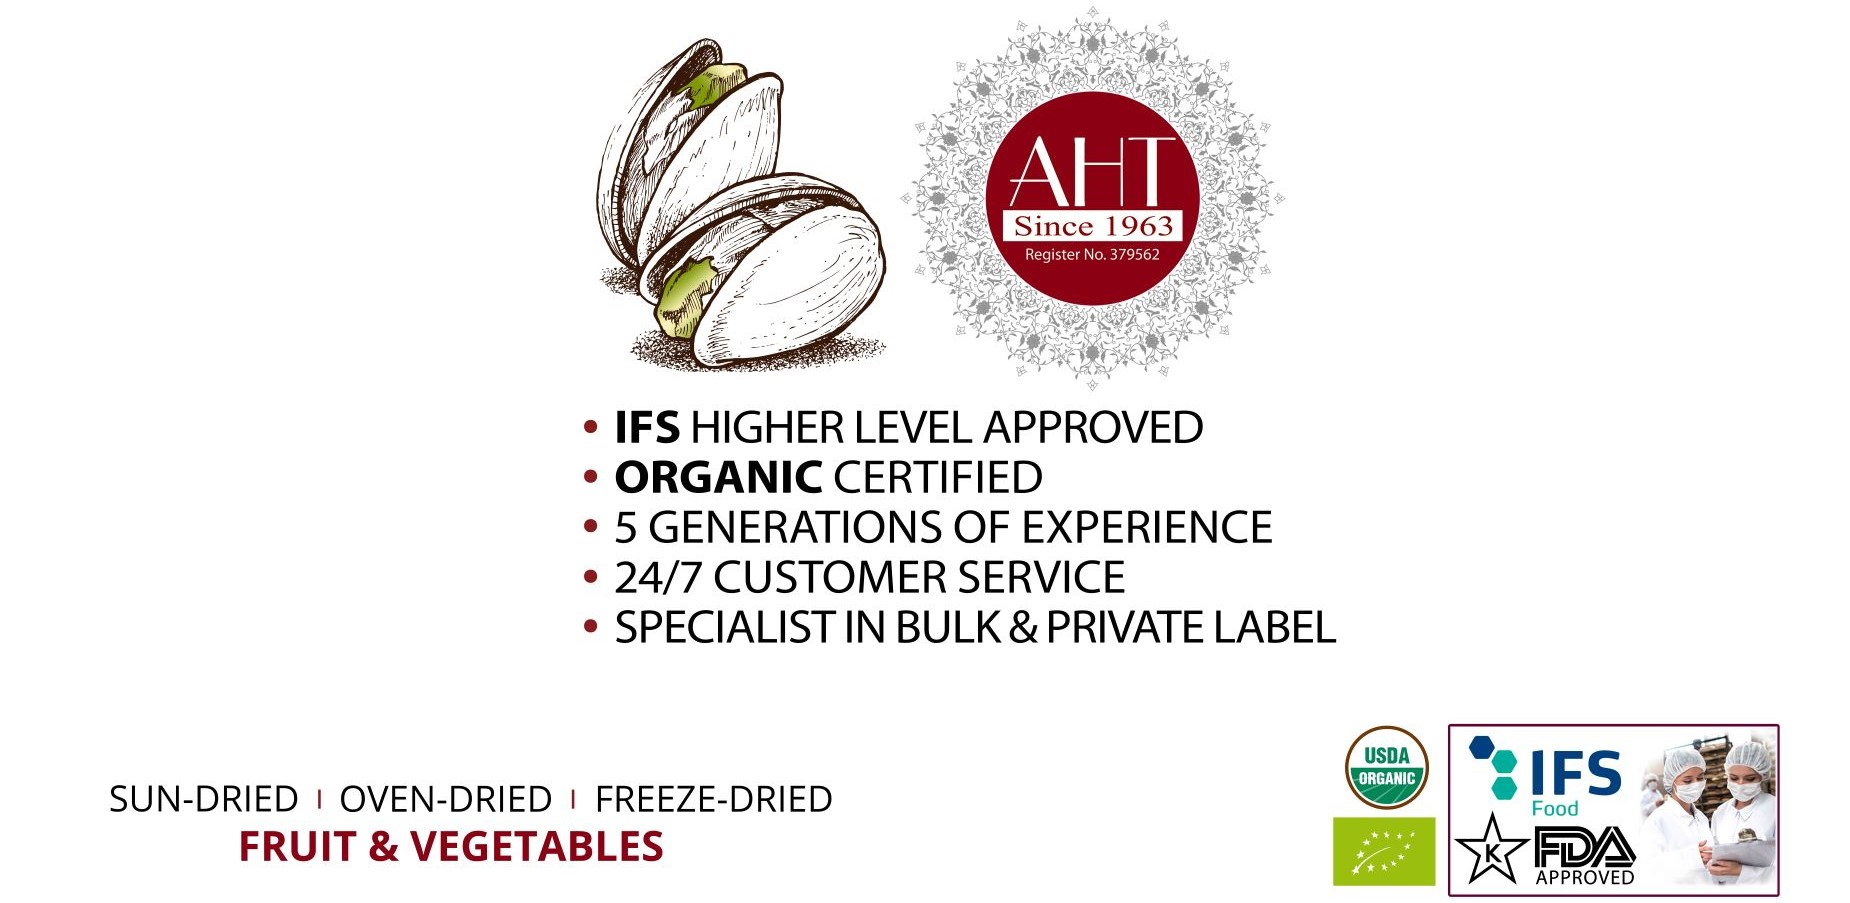
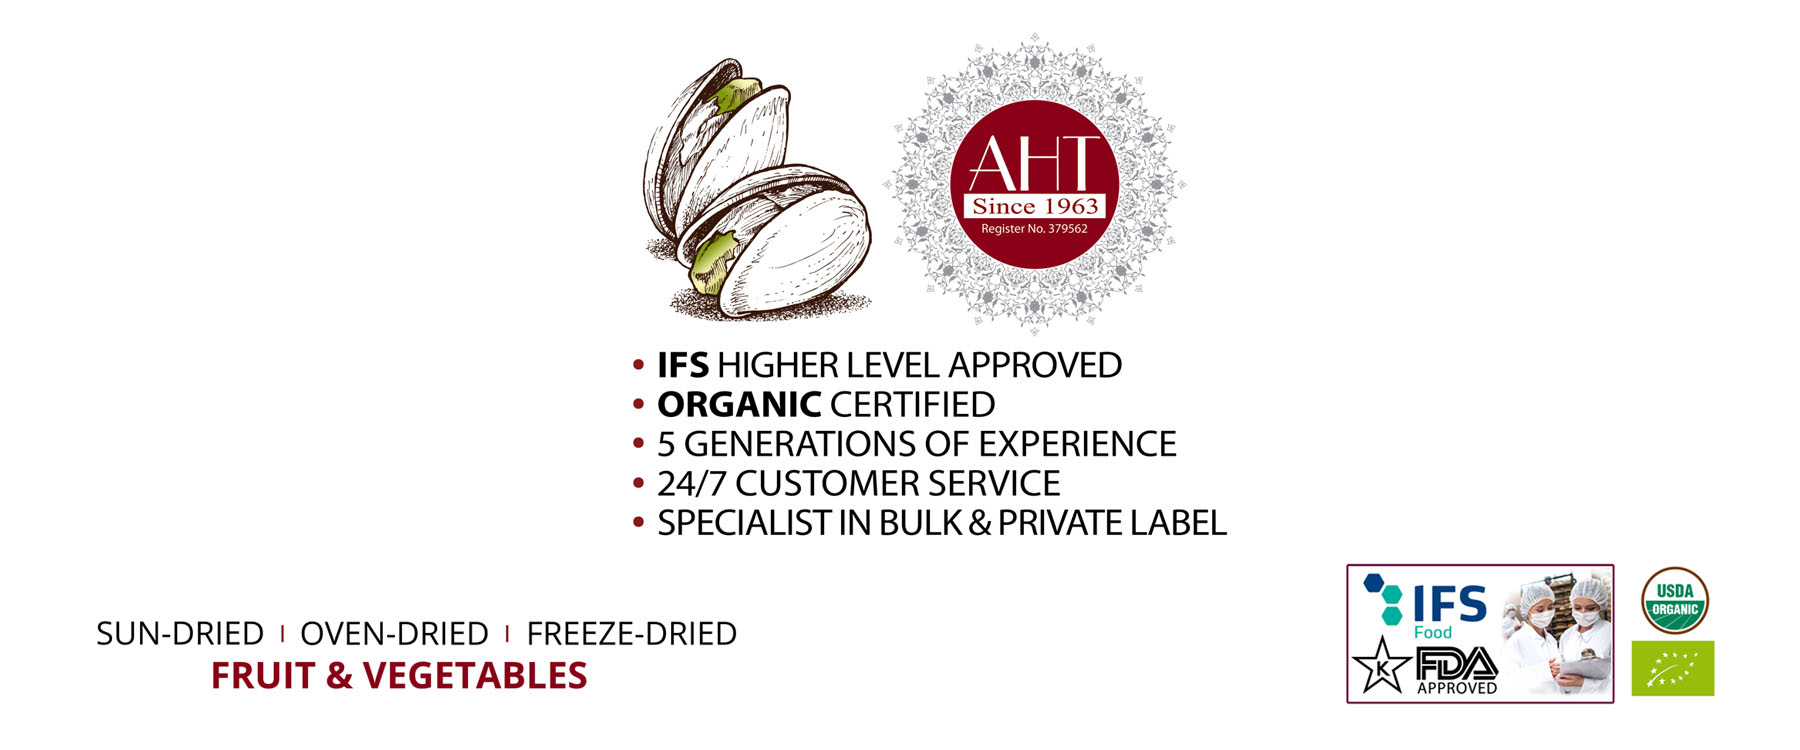
add new sliders

Changed region(s): [[0.3111, 0.0307, 0.7156, 0.736], [0.7156, 0.736, 0.9644, 1.0], [0.0311, 0.828, 0.4667, 0.9813]]

diff --git a/pages/index.js b/pages/index.js
@@ -42,9 +42,13 @@ export const getStaticProps = async () => {
 
 const Home = ({ /*popular ,*/ news, events }) => {
   const deskSlid = [
+    desktopSlider.DatesD,
     desktopSlider.PistaD,
+    desktopSlider.SaffronD,
     desktopSlider.FigsD,
-    desktopSlider.AHTD
+    desktopSlider.DatePowderD,
+    desktopSlider.AHTD,
+    desktopSlider.RaisinsD,
   ];
 
   return (
@@ -63,7 +67,7 @@ const Home = ({ /*popular ,*/ news, events }) => {
               <div className="mt-16 md:mt-36" key={index++}>
                 <Image
                   key={index++}
-                  className="w-9/12 mx-auto mb-6 md:mb-2"
+                  className="w-11/12 mx-auto mb-6 md:mb-2"
                   src={slide}
                   alt="slider"
                   width={1200}

diff --git a/assets/desktopSlider/index.js b/assets/desktopSlider/index.js
@@ -2,7 +2,10 @@ const desktopSlider = {
     AHTD: require('./AHTD.jpg'),
     FigsD: require('./FigsD.jpg'),
     PistaD: require('./PistachiosD.jpg'),
-    happy: require('./happy.jpg')
+    DatesD: require('./DatesD.jpg'),
+    DatePowderD: require('./DatePowderD.jpg'),
+    RaisinsD: require('./RaisinsD.jpg'),
+    SaffronD: require('./SaffronD.jpg')
 }
 
 
